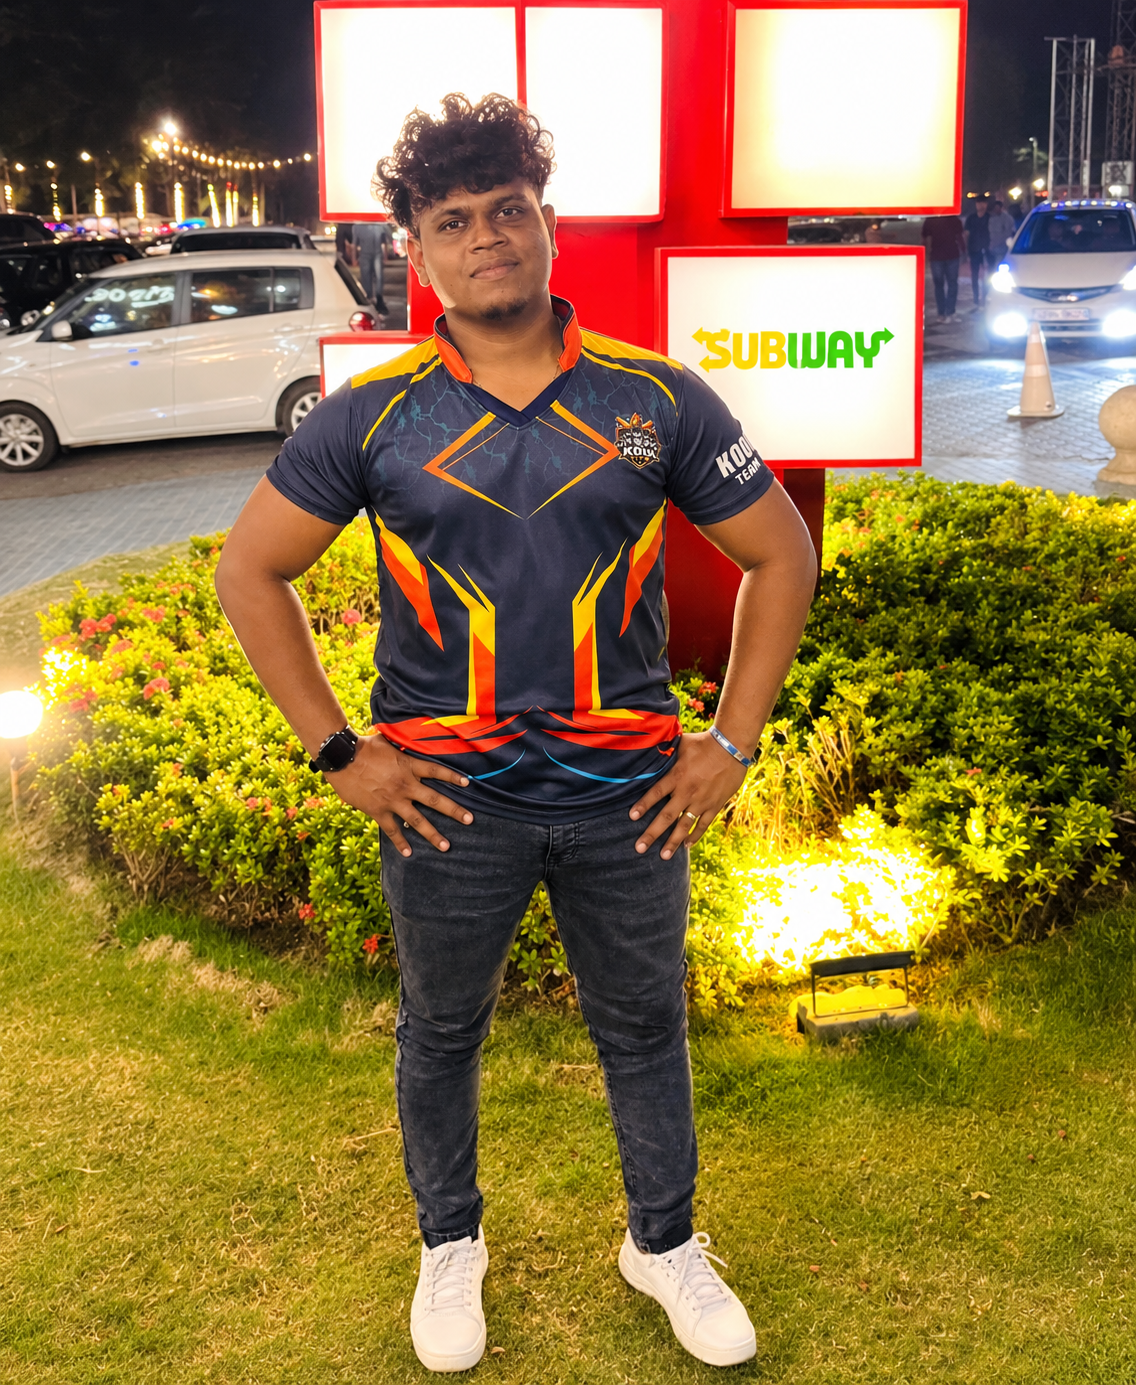
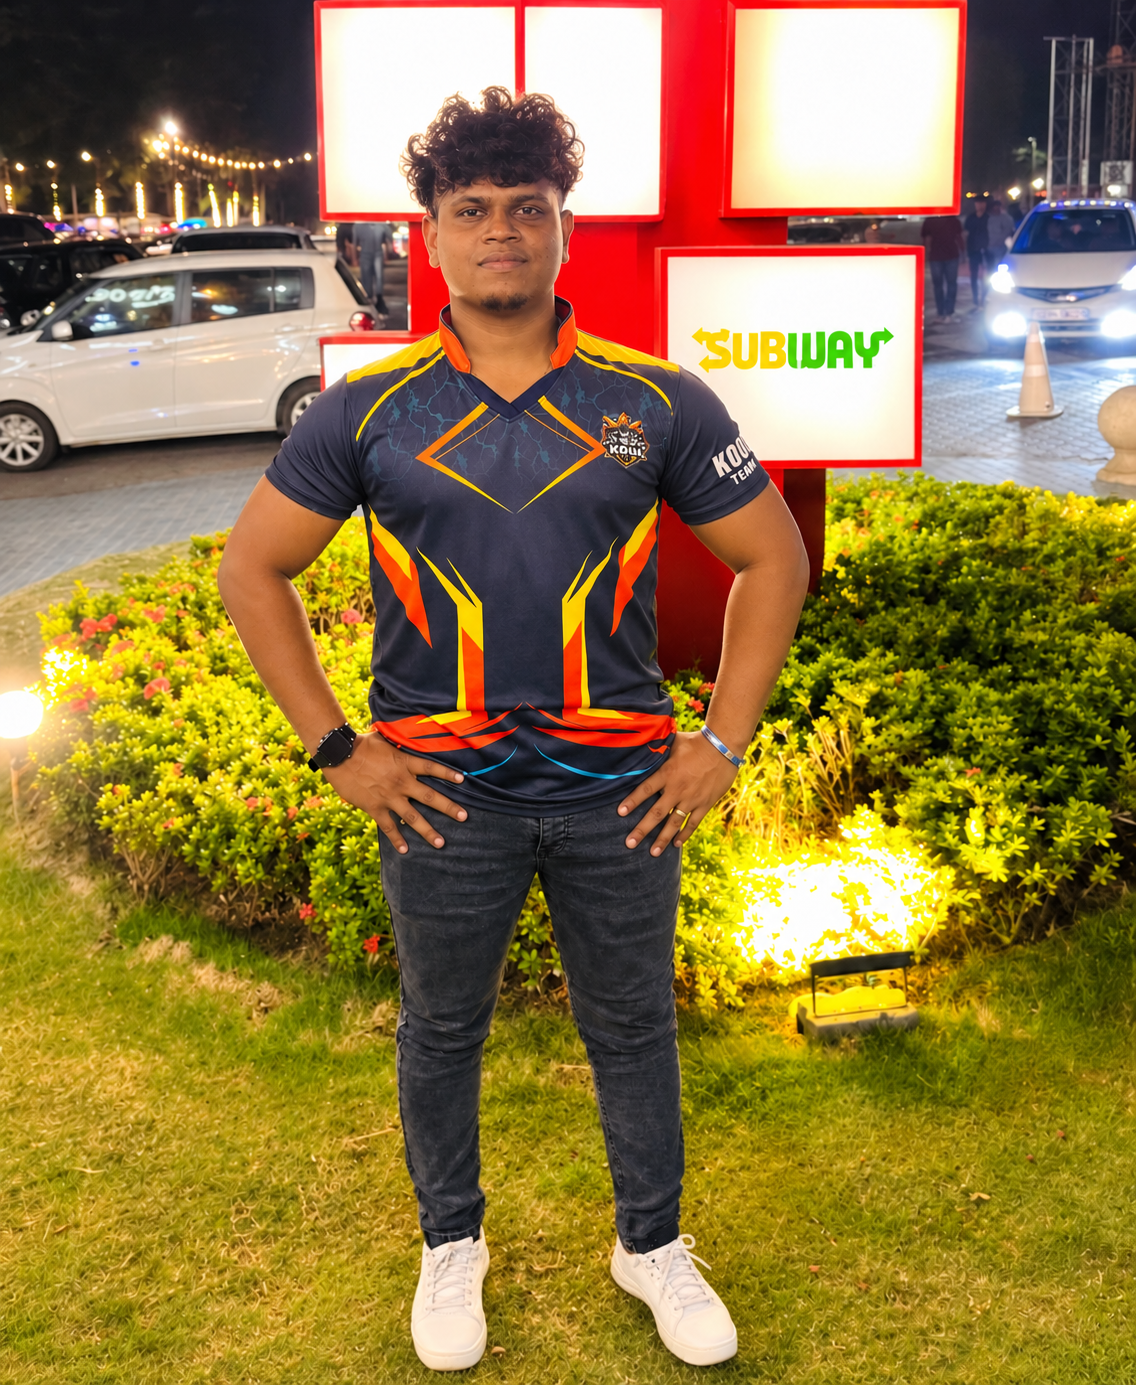
edit

diff --git a/src/lib/team.ts b/src/lib/team.ts
@@ -12,11 +12,11 @@ export const squad: Player[] = [
   { name: "Thanushan", role: "Batsman", style: "Left-hand bat",photo: "/thanu.jpeg" },
   { name: "Satheesh", role: "Batsman", style: "Right-hand bat", photo: "/satheesh.jpeg" },
   { name: "Praveen", role: "Batsman", style: "Right-hand bat", photo: "/praveen.png" },
-  { name: "PK", role: "Batting All-rounder", style: "Right-hand bat",photo: "/pk.jpeg" },
+  { name: "PK", role: "Batting All-rounder", style: "Right-hand bat",photo: "/pknew.jpeg" },
   { name: "Rijithman", role: "Batsman", style: "Right-hand bat", photo: "/rijith.jpeg" },
   { name: "Thanumithan", role: "Batting All-rounder", style: "Left-hand",photo:"/thanumithan.png" },
   { name: "Gowtham", role: "Wicket Keeper Batsman", style: "Right-hand bat",photo:"/gowtham.jpeg" },
-  { name: "Arutchan", role: "Batsman", style: "Left-hand bat" },
+  { name: "Venu", role: "Batsman", style: "Right-hand bat,photo:"/Venu.png" },
   { name: "Jewarman", role: "Batsman", style: "Right-hand bat",photo:"/jwarman.png" },
   { name: "Thimothi", role: "Batsman", style: "Left-hand bat",photo:"/thimothi.png" },
 ];
